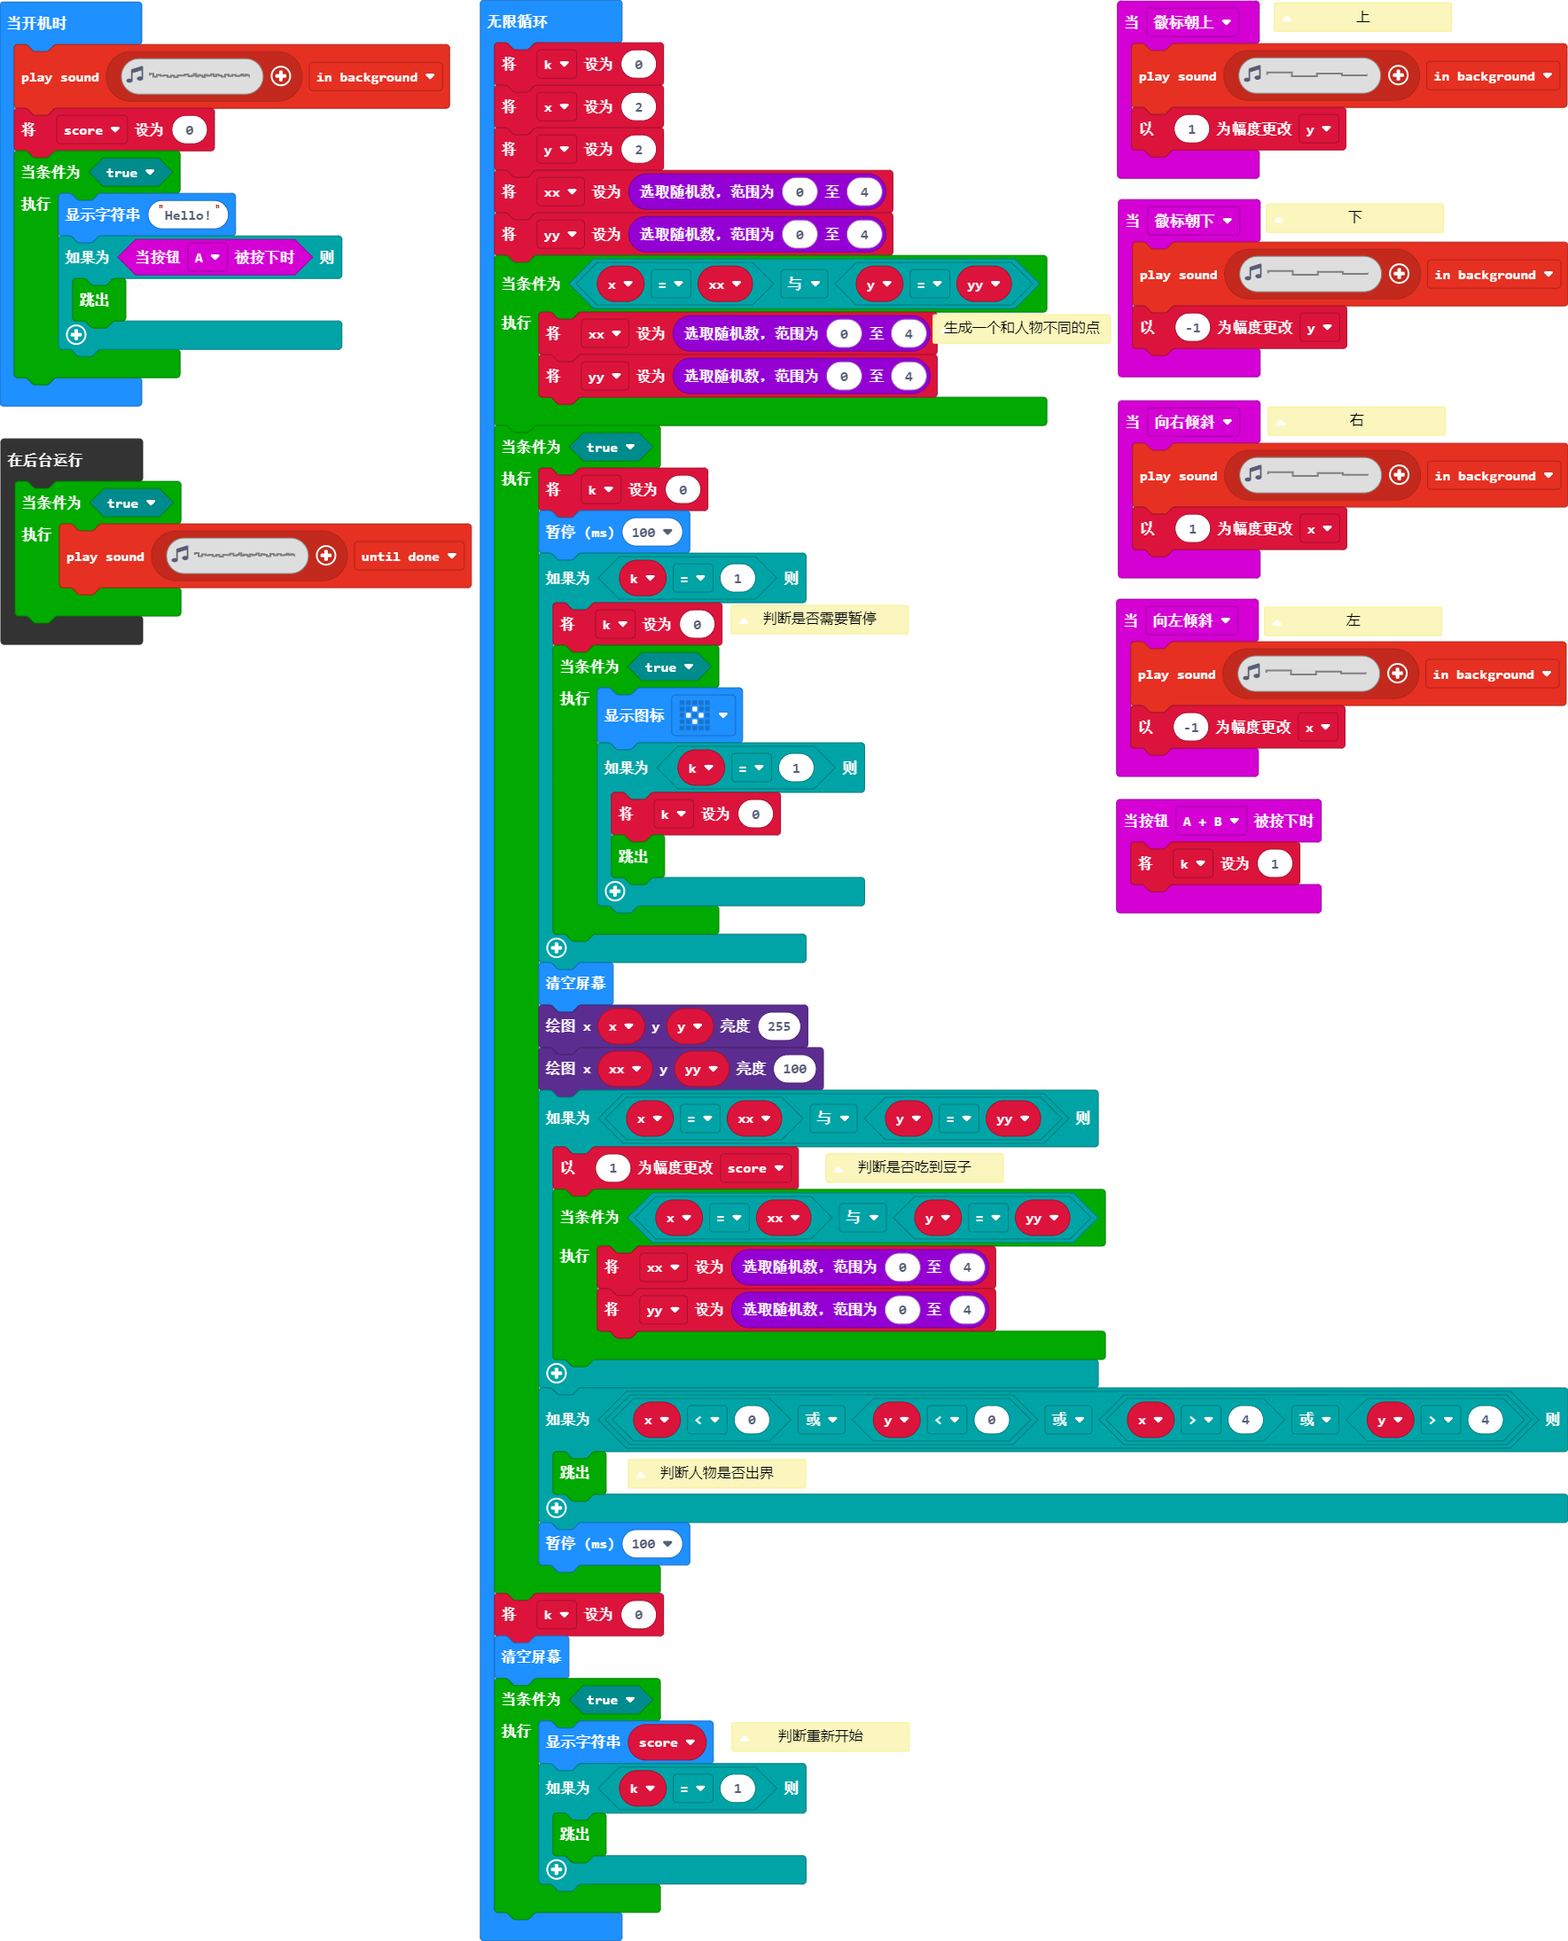
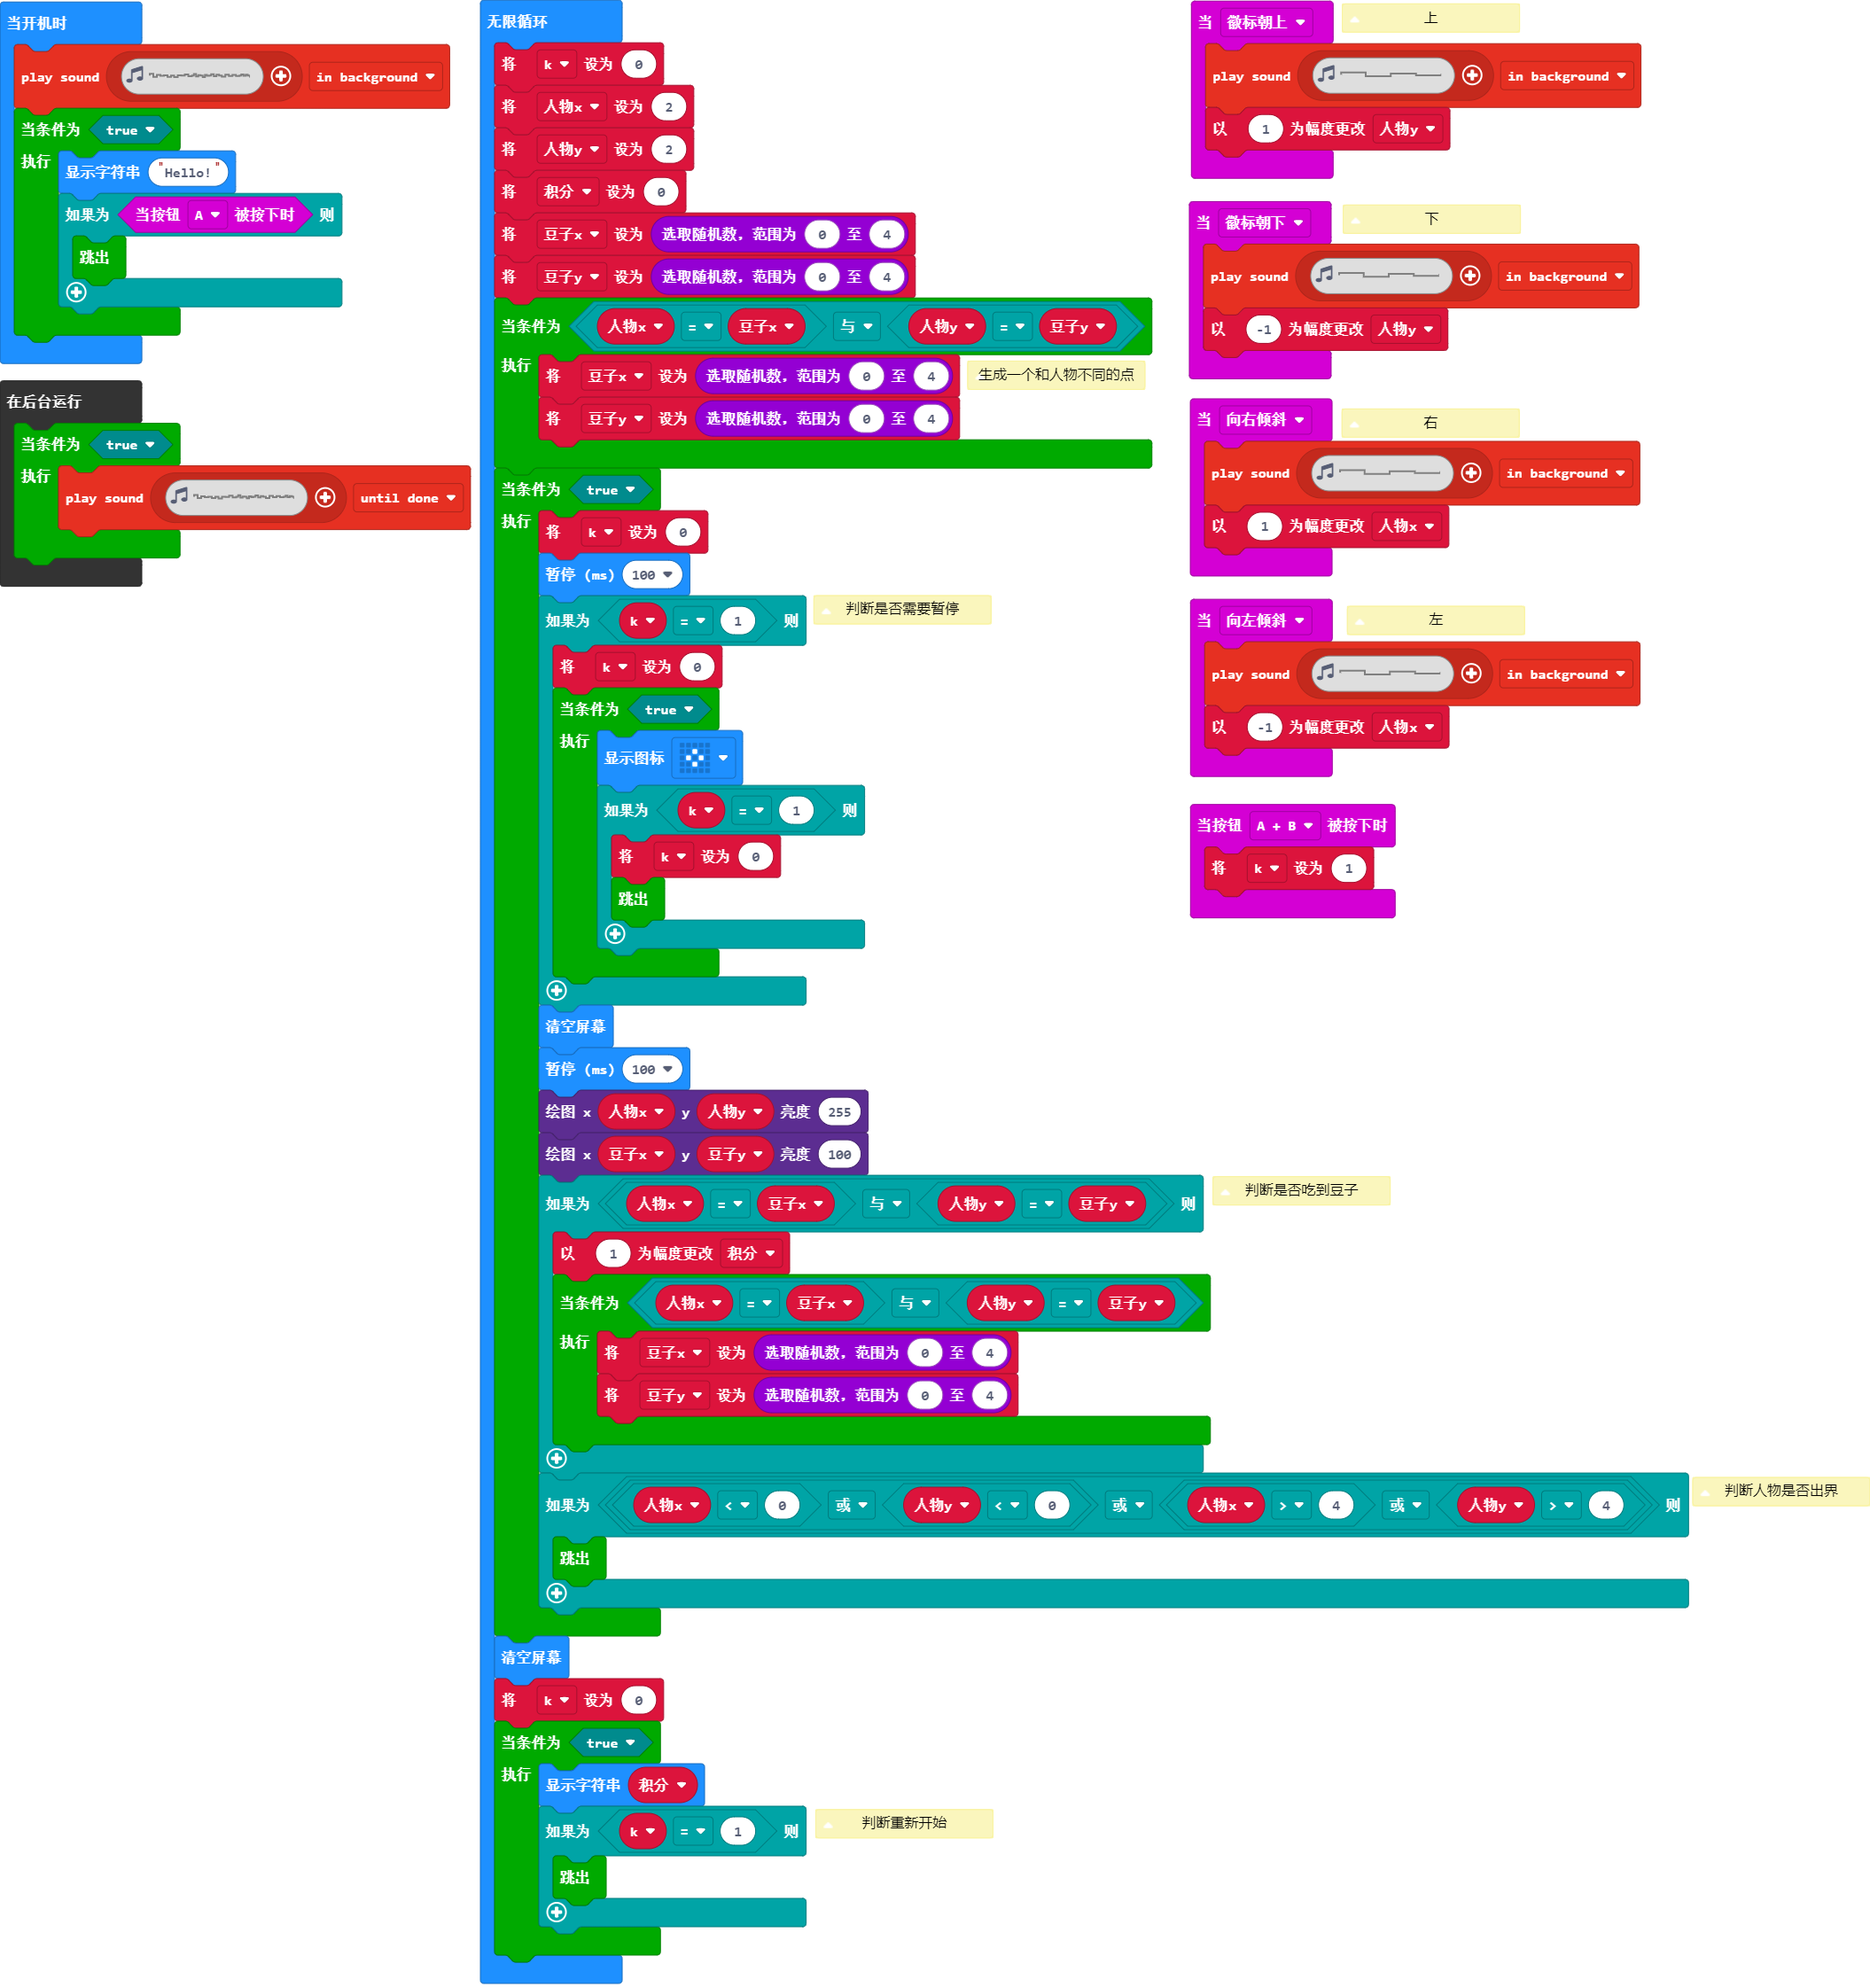
更新 main.blocks, main.ts

diff --git a/main.ts b/main.ts
@@ -1,29 +1,29 @@
 input.onGesture(Gesture.TiltLeft, function () {
     music.playSoundEffect(music.createSoundEffect(WaveShape.Square, 432, 164, 42, 0, 500, SoundExpressionEffect.None, InterpolationCurve.Linear), SoundExpressionPlayMode.InBackground)
-    x += -1
+    人物x += -1
 })
 input.onGesture(Gesture.LogoDown, function () {
     music.playSoundEffect(music.createSoundEffect(WaveShape.Square, 432, 164, 42, 0, 500, SoundExpressionEffect.None, InterpolationCurve.Linear), SoundExpressionPlayMode.InBackground)
-    y += -1
+    人物y += -1
 })
 input.onGesture(Gesture.LogoUp, function () {
     music.playSoundEffect(music.createSoundEffect(WaveShape.Square, 432, 164, 42, 0, 500, SoundExpressionEffect.None, InterpolationCurve.Linear), SoundExpressionPlayMode.InBackground)
-    y += 1
+    人物y += 1
 })
 input.onButtonPressed(Button.AB, function () {
     k = 1
 })
 input.onGesture(Gesture.TiltRight, function () {
     music.playSoundEffect(music.createSoundEffect(WaveShape.Square, 432, 164, 42, 0, 500, SoundExpressionEffect.None, InterpolationCurve.Linear), SoundExpressionPlayMode.InBackground)
-    x += 1
+    人物x += 1
 })
-let yy = 0
-let xx = 0
+let 豆子y = 0
+let 豆子x = 0
+let 积分 = 0
 let k = 0
-let y = 0
-let x = 0
+let 人物y = 0
+let 人物x = 0
 music.playSoundEffect(music.createSoundEffect(WaveShape.Noise, 164, 31, 34, 16, 750, SoundExpressionEffect.None, InterpolationCurve.Linear), SoundExpressionPlayMode.InBackground)
-let score = 0
 while (true) {
     basic.showString("Hello!")
     if (input.buttonIsPressed(Button.A)) {
@@ -59,13 +59,14 @@ while (true) {
  */
 basic.forever(function () {
     k = 0
-    x = 2
-    y = 2
-    xx = randint(0, 4)
-    yy = randint(0, 4)
-    while (x == xx && y == yy) {
-        xx = randint(0, 4)
-        yy = randint(0, 4)
+    人物x = 2
+    人物y = 2
+    积分 = 0
+    豆子x = randint(0, 4)
+    豆子y = randint(0, 4)
+    while (人物x == 豆子x && 人物y == 豆子y) {
+        豆子x = randint(0, 4)
+        豆子y = randint(0, 4)
     }
     while (true) {
         k = 0
@@ -81,24 +82,24 @@ basic.forever(function () {
             }
         }
         basic.clearScreen()
-        led.plotBrightness(x, y, 255)
-        led.plotBrightness(xx, yy, 100)
-        if (x == xx && y == yy) {
-            score += 1
-            while (x == xx && y == yy) {
-                xx = randint(0, 4)
-                yy = randint(0, 4)
+        basic.pause(100)
+        led.plotBrightness(人物x, 人物y, 255)
+        led.plotBrightness(豆子x, 豆子y, 100)
+        if (人物x == 豆子x && 人物y == 豆子y) {
+            积分 += 1
+            while (人物x == 豆子x && 人物y == 豆子y) {
+                豆子x = randint(0, 4)
+                豆子y = randint(0, 4)
             }
         }
-        if (x < 0 || y < 0 || (x > 4 || y > 4)) {
+        if (人物x < 0 || 人物y < 0 || (人物x > 4 || 人物y > 4)) {
             break;
         }
-        basic.pause(100)
     }
-    k = 0
     basic.clearScreen()
+    k = 0
     while (true) {
-        basic.showString("" + (score))
+        basic.showString("" + (积分))
         if (k == 1) {
             break;
         }
